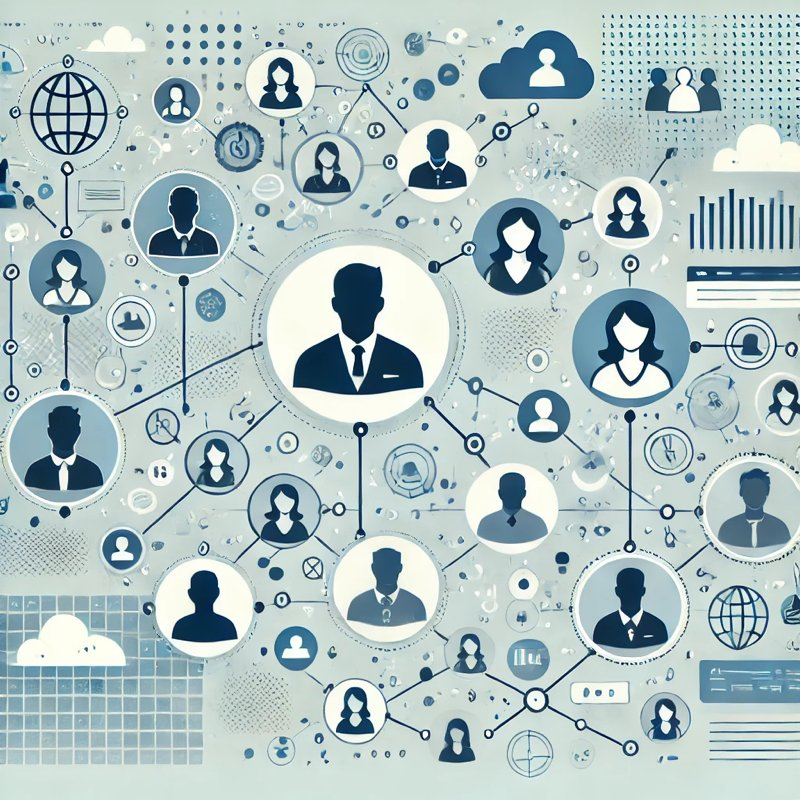
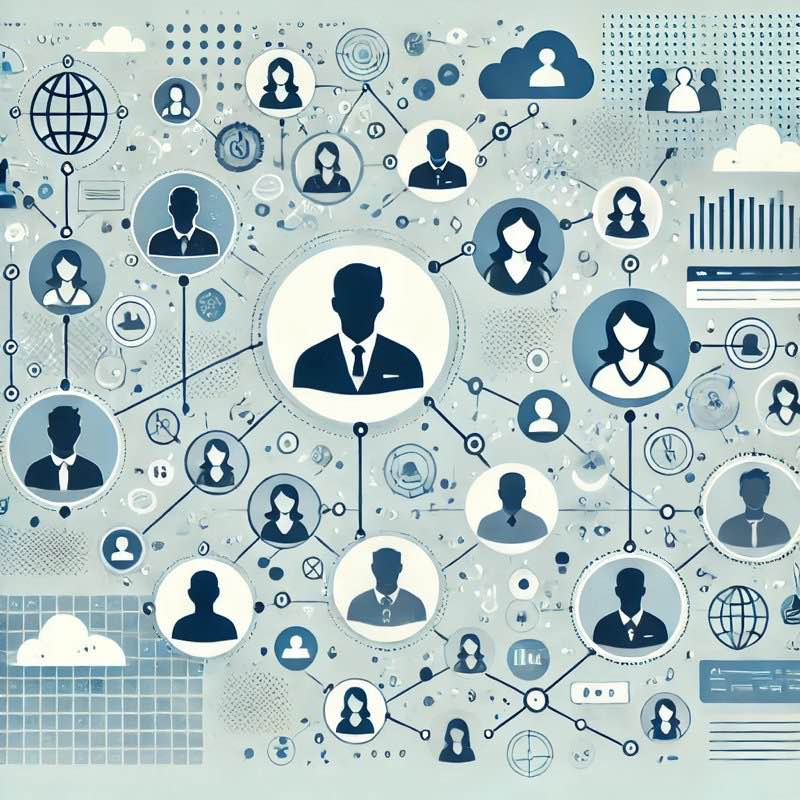
Changed images format

diff --git a/app/templates/arch.html b/app/templates/arch.html
@@ -19,7 +19,7 @@
                         </p>
                     </div>
                     <div class="col-auto">
-                        <img src="{{ url_for('static', filename='images/arch.png') }}" alt="architecture illustration" width="250px" height="auto">
+                        <img src="{{ url_for('static', filename='images/arch.jpg') }}" alt="architecture illustration" width="250px" height="auto">
                     </div>
                 </div>
                 

diff --git a/app/templates/secrets.html b/app/templates/secrets.html
@@ -24,7 +24,7 @@
                         </p>
                     </div>
                     <div class="col-auto">
-                        <img src="{{ url_for('static', filename='images/secrets.png') }}" alt="secrets illustration" width="250px" height="auto">
+                        <img src="{{ url_for('static', filename='images/secrets.jpg') }}" alt="secrets illustration" width="250px" height="auto">
                     </div>
                 </div>
             </div>

diff --git a/app/templates/users.html b/app/templates/users.html
@@ -22,7 +22,7 @@
                         </p>
                     </div>
                     <div class="col-auto">
-                        <img src="{{ url_for('static', filename='images/users.png') }}" alt="users illustration" width="250px" height="auto">
+                        <img src="{{ url_for('static', filename='images/users.jpg') }}" alt="users illustration" width="250px" height="auto">
                     </div>
                 </div>
             </div>
